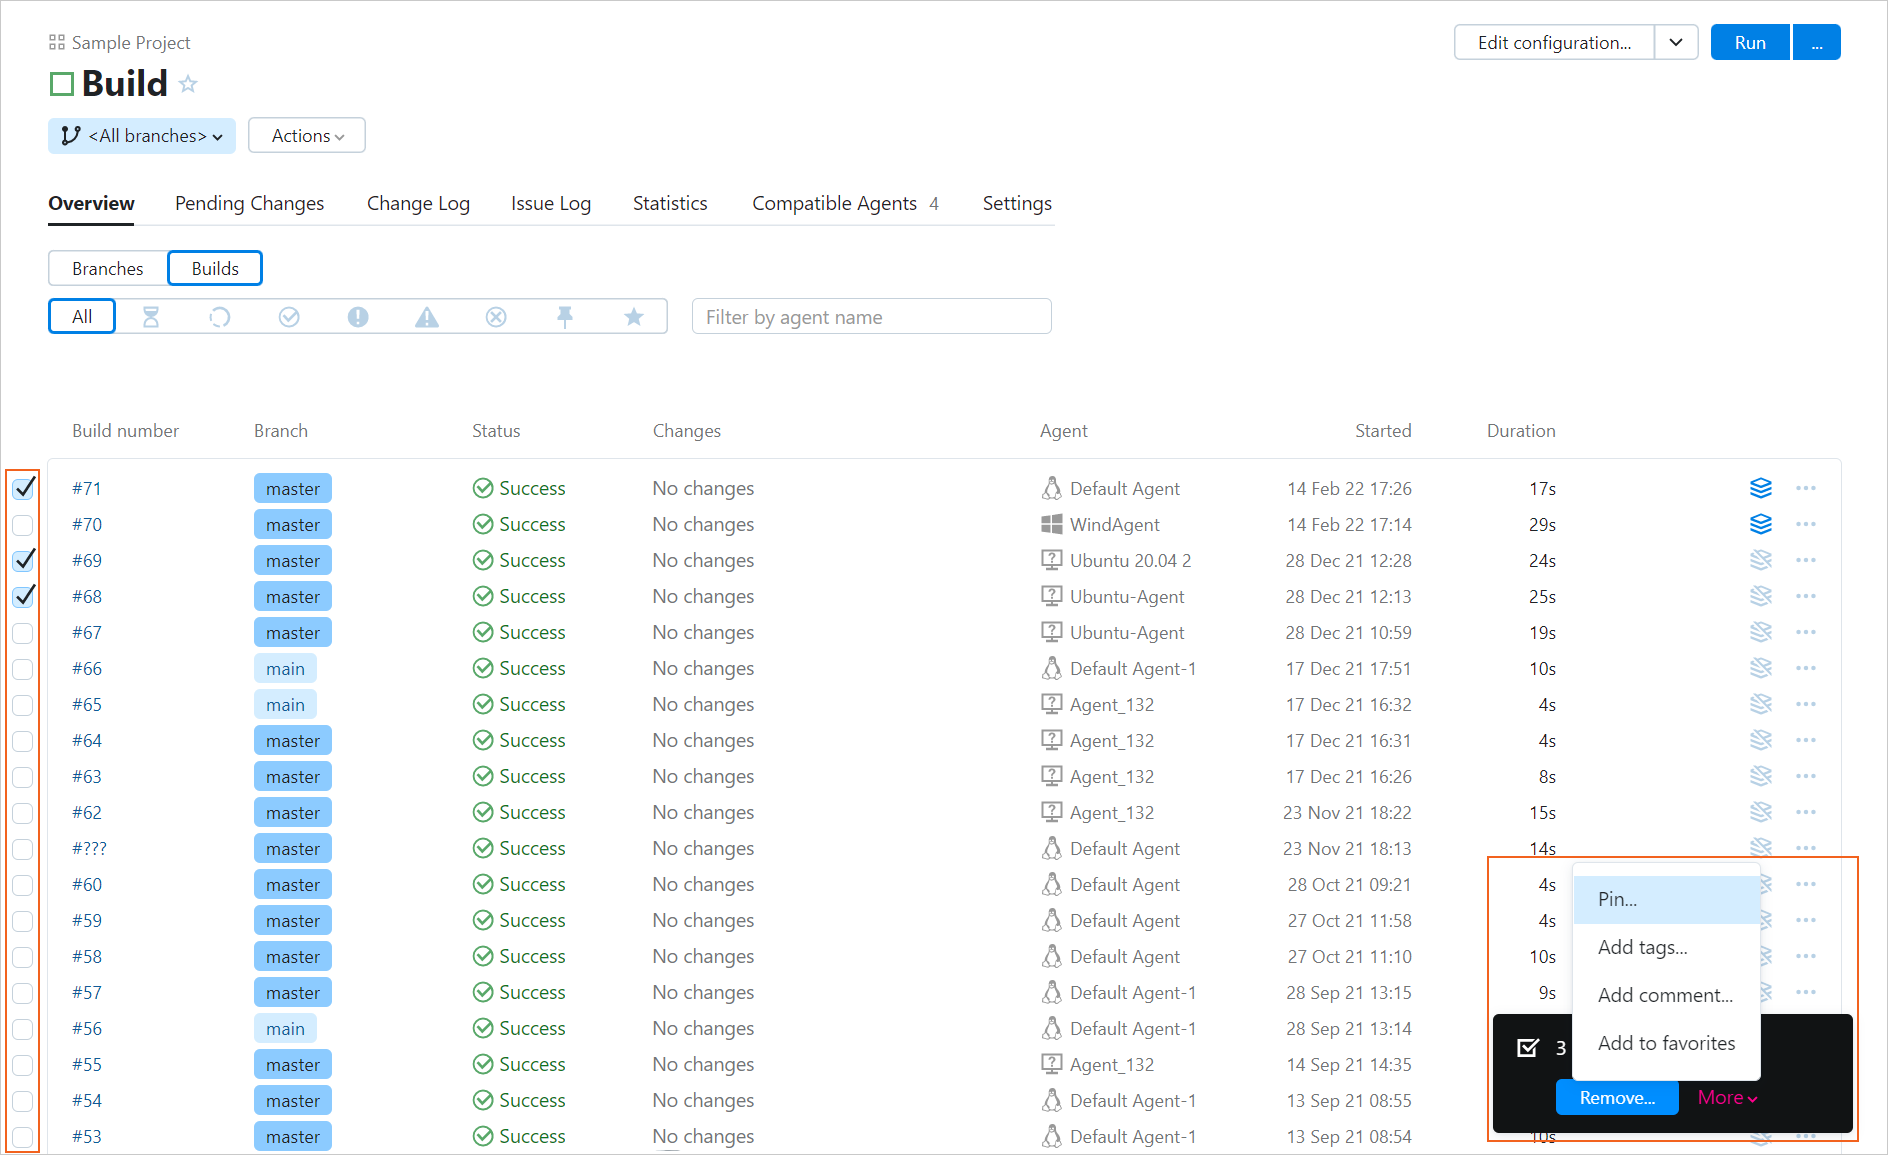
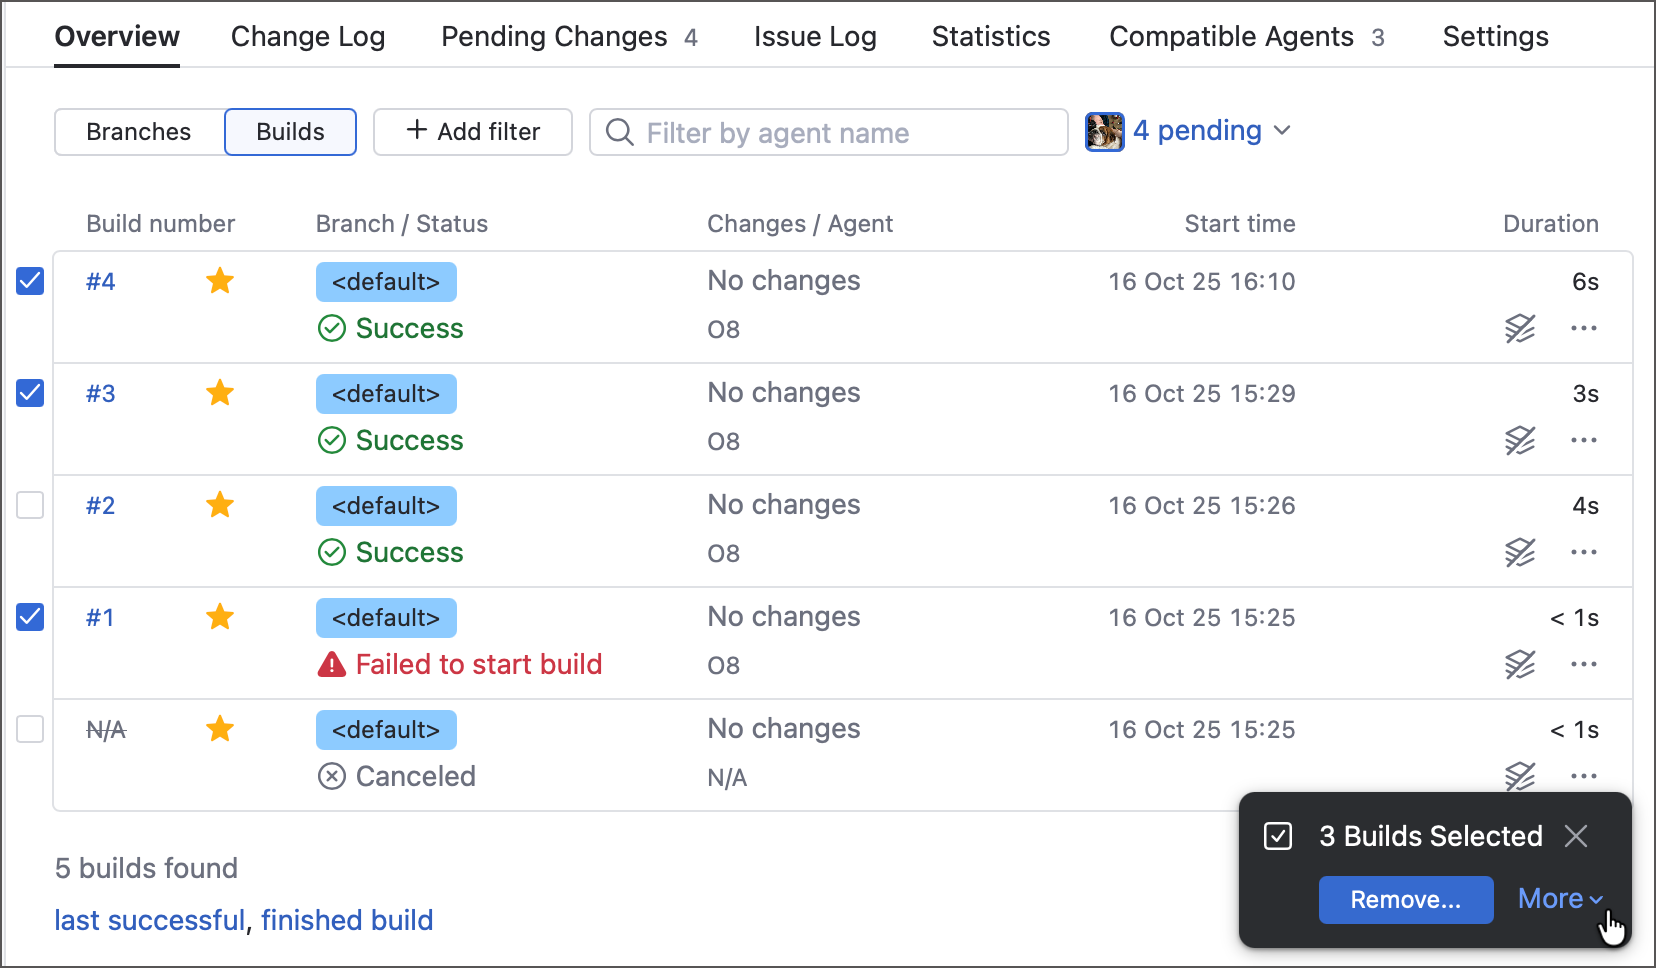
favorites and build actions visual updates

diff --git a/topics/build-actions.md b/topics/build-actions.md
@@ -1,6 +1,9 @@
 [//]: # (title: Main Actions on Builds)
 [//]: # (help-id: Main Actions on Builds;Pinned Build;Build Tag;Changing Build Status Manually)
 
+
+<show-structure for="chapter" depth="2"/>
+
 This article describes what actions can be applied to <tooltip term="build">_builds_</tooltip> in TeamCity.
 
 ## Run Build
@@ -13,7 +16,7 @@ To run a build manually, click __Run__ in the upper right corner of the screen. 
 
 The context menu next to the __Run__ button opens the build's settings menu, so you can initiate a <tooltip term="custom-build-run">_custom build run_</tooltip>. A custom run allows using different settings or/and source code than if running a regular build in the current configuration. This is handy if you want to try different build parameters or pretest local code without affecting common build settings or committing the code to the common repository. Read more about this functionality [here](running-custom-build.md).
 
-<img src="custom-run-menu.png" alt="Run Custom Build" width="460"/>
+<img src="pipelines-run-custom-build.png" width="706" alt="Run build buttons in TeamCity"/>
 
 ## Cancel Build
 
@@ -25,7 +28,7 @@ Note that there is no way to pause and then continue a single build (though you 
 
 The following actions can be invoked from the single-build __Actions__ menu. To open this menu from __Build Configuration Home__, click ![VCS-browserIcon.png](VCS-browserIcon.png) opposite the build in the list. To open it from the build's __Overview__, click __Actions__ in the upper left corner.
 
-<img src="build-actions-menu.png" alt="Build Actions Menu" width="296"/>
+<img src="build-actions-menu.png" alt="Build Actions Menu" width="706"/>
 
 ### Re-run Build
 
@@ -62,19 +65,8 @@ You can also add and modify build tags using [service messages](service-messages
 
 <!--[//]: # (Internal note. Do not delete. "Build Tagd46e113.txt")-->
 
-### Add Build to Favorites
-{help-id="AddBuildToFavorites"}
 
 
-<!--[//]: # (Internal note. Do not delete. "Favorite Buildd142e4.txt")-->
-
-You can add builds to _favorites_ to have quick access to them. Favorite builds can also be set as a filter option for [notifications](set-up-notifications.md).
-
-When added to favorites, a build will be marked with a star icon ![star_filled.png](star_filled.png). Clicking it will remove the "favorite" status.
-
-TeamCity can automatically mark your manually triggered and [personal builds](personal-build.md) as favorites. To achieve this, enable the respective setting in your [user profile settings](configuring-your-user-profile.md).
-
-To view your favorites, click your avatar in the upper right corner of the screen and choose __Favorite Builds__.
 
 ### Compare Two Builds
 
@@ -111,6 +103,22 @@ TeamCity can merge the code of one source branch to another: for example, after 
 
 You can configure [automatic merge](automatic-merge.md) or do it manually for each build, from the __Actions__ menu. The pop-up dialog will prompt you to select the destination branch for a merge and enter a merge commit message.
 
+
+## Add Build to Favorites
+{help-id="AddBuildToFavorites"}
+
+
+The **Favorite builds** page is accessible via the side navigation bar.
+
+<img src="favorite-builds.png" width="706" alt="Favorite builds"/>
+
+By default, all builds manually started by a TeamCity user are added to this user's favorites automatically. This behavior can be changed via the **Edit** action. To manually add or remove a build to/from the favorites, click the star ![star_filled.png](star_filled.png) icon next to the build number.
+
+Favorite builds can be used as an additional filter when setting up [notifications](set-up-notifications.md).
+
+<img src="notifications-only-favorites.png" width="706" alt="Favorite builds in notifications"/>
+
+
 ## Build Configuration Actions Menu
 
 The __[Build Configuration Home](build-configuration-home-page.md)__ page has own __Actions__ menu with a different set of actions. It allows you to:
@@ -124,4 +132,4 @@ The __[Build Configuration Home](build-configuration-home-page.md)__ page has ow
 
 You can manage multiple builds at once (for example, pin, add tags, compare two builds, remove builds, add builds to favorites, or add comments). For this, select the required builds on the __Overview__ tab of __Build Configuration Home__ (checkboxes appear when hovering over builds), and use commands of the pop-up context menu. If you need to select a range of builds, press __Shift__ and click build checkboxes at the edges of the range to be selected.
 
-<img src="select-multiple-builds.png" alt="Selecting multiple builds" width="750"/>
+<img src="select-multiple-builds.png" alt="Selecting multiple builds" width="706"/>

diff --git a/topics/configuring-your-user-profile.md b/topics/configuring-your-user-profile.md
@@ -82,7 +82,6 @@ In __Your Profile | General__, you can customize the following UI settings:
 * Highlight my changes and investigations: Select to highlight builds that include your changes (changes committed by a user with the VCS username provided in the [Version Control Username Settings](#Managing+Version+Control+Username+Settings) section) and problems you were assigned to investigate on the __Projects__ page, __Project Home__ page, __Build Configuration Home__ page.
 * Show date/time in my timezone: Check the option, if you want TeamCity to automatically detect your time zone and show the date and time (for example, build start, VCS change time, and so on) according to it.
 * Show all personal builds
-* Add builds manually triggered by you to your [favorites](build-actions.md#Add+Build+to+Favorites).
 
 ## Viewing your Roles and Permissions
 

diff --git a/topics/set-up-notifications.md b/topics/set-up-notifications.md
@@ -49,7 +49,7 @@ All the notifiers behave according to notification rules. If you want to configu
 A notification rule comprises the following conditions:
 * what projects to monitor
 * what branches to monitor
-* include all builds, or only builds with your changes, or/and only your favorite builds
+* include all builds, or only builds with your changes, or/and only your [favorite builds](build-actions.md#Add+Build+to+Favorites)
 * what events to report
 
 The notification about a certain event is only sent if this event satisfies any of the configured rules.
